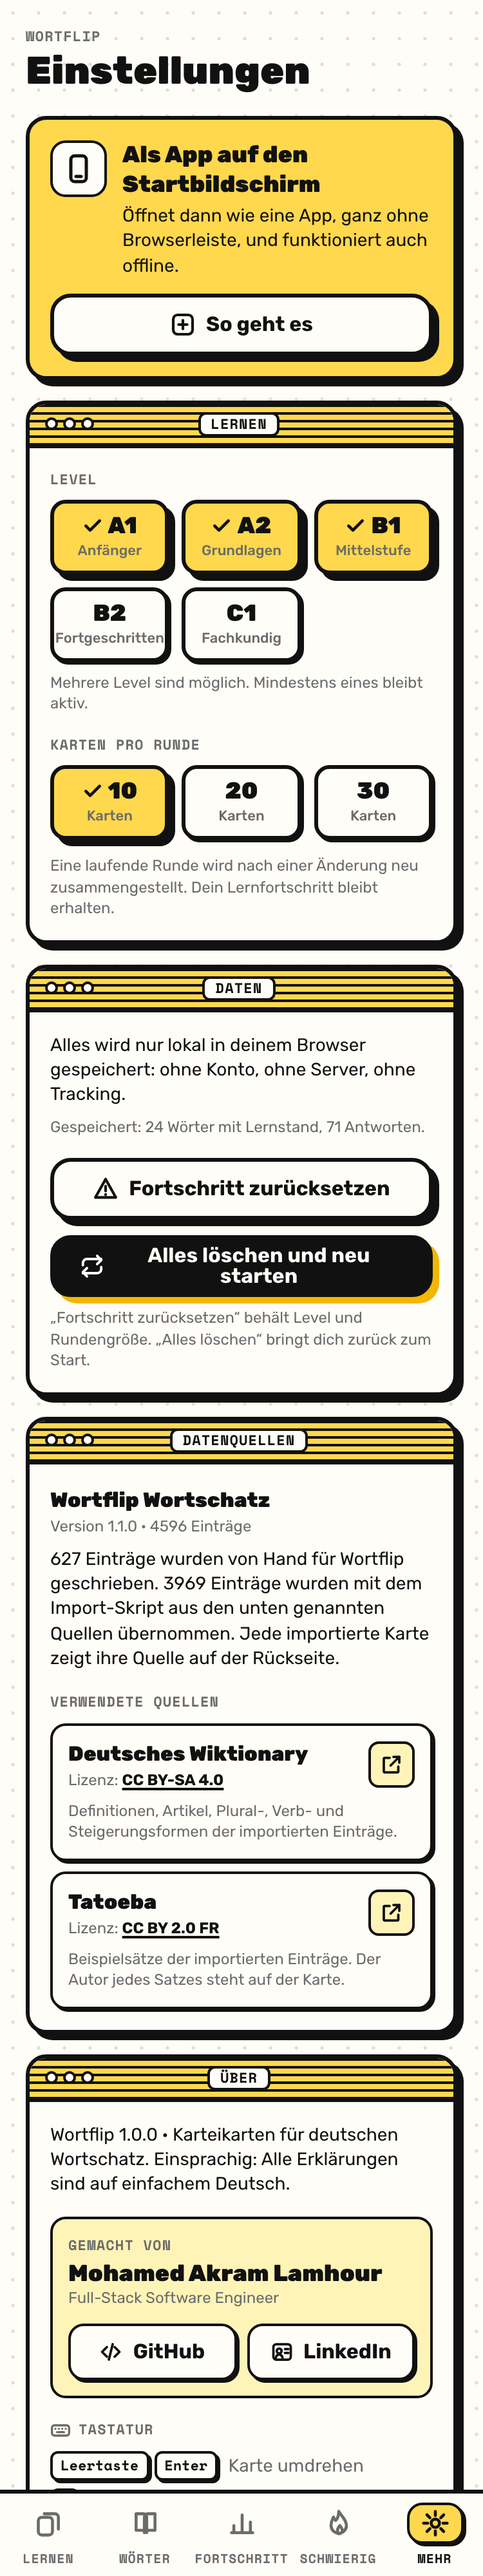
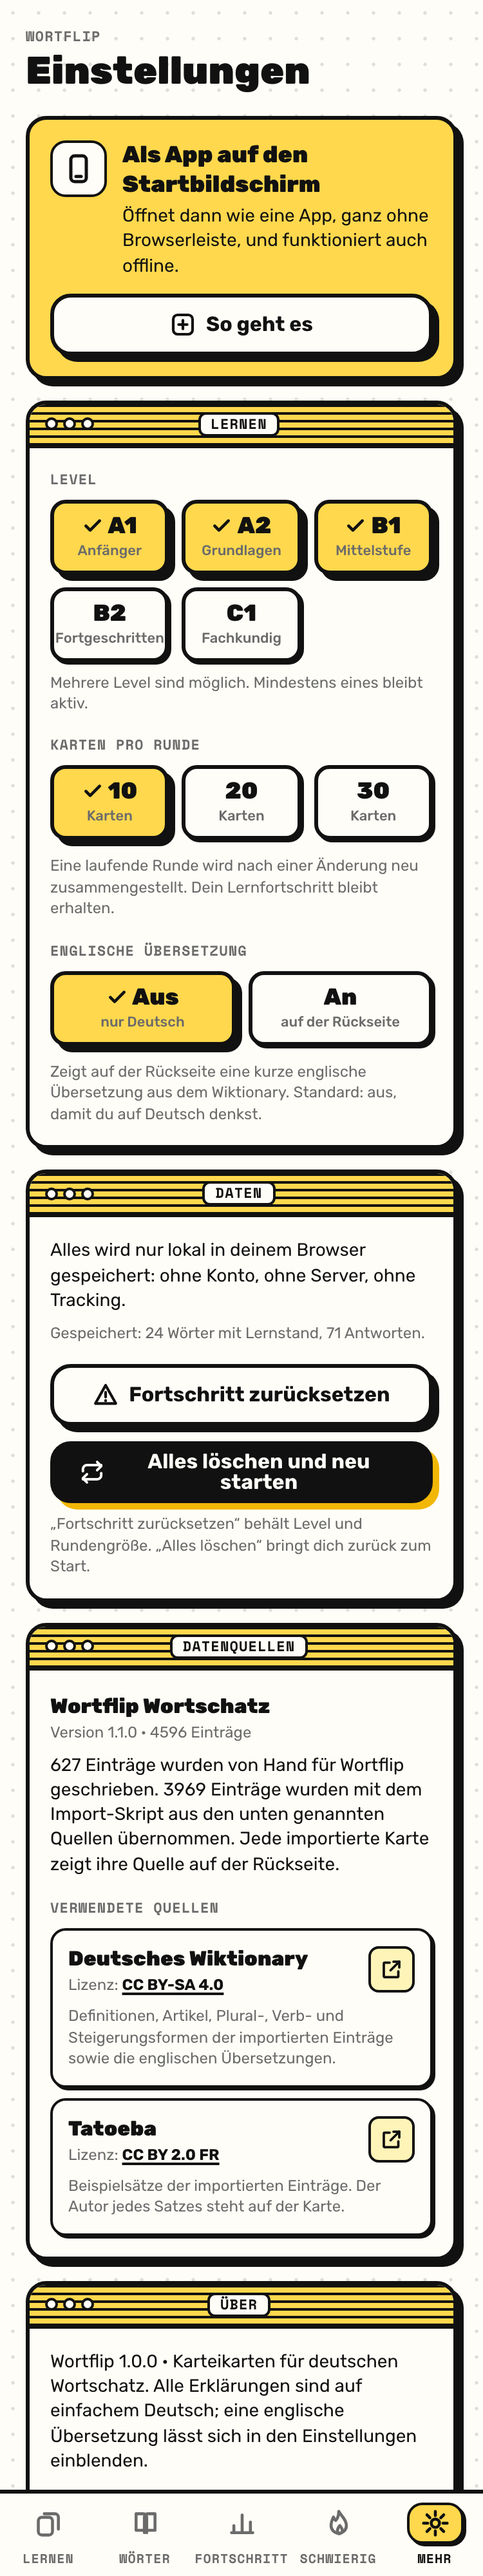
Add an optional English translation to the card back
A new import script reads the English words from the translation tables of
the cached Wiktionary pages (first sense, at most three words) for every
hand-written and imported word and writes translations.json (4417 of 4596
words). The line is shown on the back of the card and in the word list only
when the new setting is switched on; it is off by default so learners keep
thinking in German. Hand-written cards credit the Wiktionary for it.

Changed region(s): [[0.0307, 0.3438, 0.9813, 0.9688], [0.0307, 0.3438, 0.0613, 0.375]]

diff --git a/src/components/WordDetails.tsx b/src/components/WordDetails.tsx
@@ -1,5 +1,6 @@
 import { dataset, pluralForm, type VocabularyItem } from '../data';
 import { cn } from '../lib/cn';
+import { useApp } from '../state/AppContext';
 
 interface Row {
   label: string;
@@ -47,6 +48,7 @@ export function WordForms({ item, className }: { item: VocabularyItem; className
   );
 }
 
+const TRANSLATION_SOURCE = 'de-wiktionary';
 const SECTION_LABEL = 'font-mono text-[11px] font-bold uppercase tracking-wider text-gray';
 
 function sourceName(id: string): string {
@@ -55,10 +57,12 @@ function sourceName(id: string): string {
 }
 
 /** "Wörterbuch: Deutsches Wiktionary (CC BY-SA 4.0) · Beispiel: Tatoeba (CC BY 2.0 FR), Autor: xyz" */
-function attribution(item: VocabularyItem): string | null {
+function attribution(item: VocabularyItem, withTranslation: boolean): string | null {
   const parts: string[] = [];
   const definitionIds = (item.sourceIds ?? []).filter((id) => id !== item.exampleSource?.sourceId);
   if (definitionIds.length > 0) parts.push(`Wörterbuch: ${definitionIds.map(sourceName).join(', ')}`);
+  // Hand-written words carry no dictionary source, but their translation still comes from the Wiktionary.
+  if (withTranslation && !definitionIds.includes(TRANSLATION_SOURCE)) parts.push(`Übersetzung: ${sourceName(TRANSLATION_SOURCE)}`);
   if (item.exampleSource) {
     const author = item.exampleSource.author ? `, Autor: ${item.exampleSource.author}` : '';
     parts.push(`Beispiel: ${sourceName(item.exampleSource.sourceId)}${author}`);
@@ -68,12 +72,23 @@ function attribution(item: VocabularyItem): string | null {
 
 /** Definition, example sentence and grammatical forms. Shared by the card back and the word list. */
 export function WordDetails({ item, compact = false }: { item: VocabularyItem; compact?: boolean }) {
+  const { state } = useApp();
+  const translation = state.settings.showTranslation ? item.translationEn : undefined;
+  const credits = attribution(item, translation !== undefined);
   return (
     <div className={cn('flex flex-col', compact ? 'gap-2.5' : 'gap-3.5 short:gap-2.5')}>
       <section>
         <h3 className={SECTION_LABEL}>Bedeutung</h3>
         <p className={cn('mt-0.5 font-medium leading-snug', compact ? 'text-[15px]' : 'text-[17px] short:text-[15px]')}>{item.definitionDe}</p>
       </section>
+      {translation && (
+        <section>
+          <h3 className={SECTION_LABEL}>Englisch</h3>
+          <p className={cn('mt-0.5 leading-snug', compact ? 'text-[14px]' : 'text-[15px] short:text-[14px]')} lang="en">
+            {translation}
+          </p>
+        </section>
+      )}
       <section>
         <h3 className={SECTION_LABEL}>Beispiel</h3>
         <p
@@ -86,7 +101,7 @@ export function WordDetails({ item, compact = false }: { item: VocabularyItem; c
         </p>
       </section>
       <WordForms item={item} />
-      {attribution(item) && <p className="font-mono text-[10px] leading-snug text-gray">{attribution(item)}</p>}
+      {credits && <p className="font-mono text-[10px] leading-snug text-gray">{credits}</p>}
     </div>
   );
 }

diff --git a/src/screens/SettingsScreen.tsx b/src/screens/SettingsScreen.tsx
@@ -26,6 +26,11 @@ const SHORTCUTS = [
   { keys: ['→'], action: 'Kenne ich' },
 ];
 
+const TRANSLATION_CHOICES: Choice<'off' | 'on'>[] = [
+  { value: 'off', label: 'Aus', hint: 'nur Deutsch' },
+  { value: 'on', label: 'An', hint: 'auf der Rückseite' },
+];
+
 export function SettingsScreen() {
   const { state, dispatch, persistent } = useApp();
   const { settings } = state;
@@ -54,6 +59,18 @@ export function SettingsScreen() {
         </div>
         <p className="mt-3 text-xs leading-snug text-gray">
           Eine laufende Runde wird nach einer Änderung neu zusammengestellt. Dein Lernfortschritt bleibt erhalten.
+        </p>
+        <div className="mt-4">
+          <ChoiceGroup
+            name="settings-translation"
+            legend="Englische Übersetzung"
+            options={TRANSLATION_CHOICES}
+            value={settings.showTranslation ? 'on' : 'off'}
+            onChange={(value) => dispatch({ type: 'settings/showTranslation', showTranslation: value === 'on' })}
+          />
+        </div>
+        <p className="mt-3 text-xs leading-snug text-gray">
+          Zeigt auf der Rückseite eine kurze englische Übersetzung aus dem Wiktionary. Standard: aus, damit du auf Deutsch denkst.
         </p>
       </Window>
 
@@ -114,7 +131,7 @@ export function SettingsScreen() {
 
       <Window title="Über" className="mt-4">
         <p className="text-sm leading-snug">
-          Wortflip {__APP_VERSION__} · Karteikarten für deutschen Wortschatz. Einsprachig: Alle Erklärungen sind auf einfachem Deutsch.
+          Wortflip {__APP_VERSION__} · Karteikarten für deutschen Wortschatz. Alle Erklärungen sind auf einfachem Deutsch; eine englische Übersetzung lässt sich in den Einstellungen einblenden.
         </p>
         <div className="mt-4 rounded-xl border-2 border-black bg-yellow-light p-3">
           <p className="font-mono text-[11px] font-bold uppercase tracking-wider text-gray">Gemacht von</p>

diff --git a/src/data/index.ts b/src/data/index.ts
@@ -1,6 +1,7 @@
 import type { Level, VocabularyDataset, VocabularyItem, VocabularySource, WordType } from './types';
 import { vocabulary } from './vocabulary';
 import { importedSources, importedVocabulary } from './vocabulary/imported';
+import translationsFile from './vocabulary/translations.json';
 
 export type { Article, Level, VocabularyDataset, VocabularyItem, VocabularySource, WordType } from './types';
 
@@ -18,6 +19,13 @@ export const WORD_TYPE_LABELS: Record<WordType, string> = {
   other: 'Sonstiges',
 };
 
+const translations = translationsFile.translations as Record<string, string>;
+
+/** Attaches the optional English translations (German Wiktionary) to the items that have one. */
+function withTranslations(items: VocabularyItem[]): VocabularyItem[] {
+  return items.map((item) => (translations[item.id] ? { ...item, translationEn: translations[item.id] } : item));
+}
+
 /**
  * The dataset the app currently runs on. Swap `items` for a larger curated
  * list and describe its origin here; the attribution page renders `origin`
@@ -32,7 +40,7 @@ export const dataset: VocabularyDataset = {
       : `${vocabulary.length} Einträge wurden von Hand für Wortflip geschrieben. ${importedVocabulary.length} Einträge wurden mit dem ` +
         'Import-Skript aus den unten genannten Quellen übernommen. Jede importierte Karte zeigt ihre Quelle auf der Rückseite.',
   sources: importedSources,
-  items: [...vocabulary, ...importedVocabulary],
+  items: withTranslations([...vocabulary, ...importedVocabulary]),
 };
 
 /**

diff --git a/src/state/reducer.test.ts b/src/state/reducer.test.ts
@@ -28,7 +28,7 @@ describe('reducer', () => {
     const partial = reducer(state, { type: 'progress/reset' });
     expect(partial.progress).toEqual({});
     expect(partial.stats.totalReviews).toBe(0);
-    expect(partial.settings).toEqual({ levels: ['A2'], sessionSize: 30, onboarded: true });
+    expect(partial.settings).toEqual({ levels: ['A2'], sessionSize: 30, showTranslation: false, onboarded: true });
 
     const full = reducer(state, { type: 'app/reset-all' });
     expect(full).toEqual(defaultState());
@@ -43,5 +43,16 @@ describe('reducer', () => {
     expect(reducer(state, { type: 'settings/levels', levels: ['A1'] }).session).not.toBeNull(); // unchanged levels
     state = reducer(state, { type: 'settings/levels', levels: ['B1'] });
     expect(state.session).toBeNull();
+  });
+
+  it('toggling the translation keeps the running session', () => {
+    let state = reducer(defaultState(), {
+      type: 'session/set',
+      session: { kind: 'daily', queue: ['tisch'], total: 1, correct: 0, incorrect: 0, startedAt: NOW },
+    });
+    state = reducer(state, { type: 'settings/showTranslation', showTranslation: true });
+    expect(state.settings.showTranslation).toBe(true);
+    expect(state.session).not.toBeNull();
+    expect(reducer(state, { type: 'settings/showTranslation', showTranslation: true })).toBe(state);
   });
 });

diff --git a/src/state/reducer.ts b/src/state/reducer.ts
@@ -10,6 +10,7 @@ export type Action =
   | { type: 'onboarding/complete'; levels: Level[] }
   | { type: 'settings/levels'; levels: Level[] }
   | { type: 'settings/sessionSize'; sessionSize: SessionSize }
+  | { type: 'settings/showTranslation'; showTranslation: boolean }
   | { type: 'session/set'; session: SessionState | null }
   | { type: 'review'; id: string; rating: Rating; now: number }
   | { type: 'progress/reset' }
@@ -38,6 +39,12 @@ export function reducer(state: AppState, action: Action): AppState {
     case 'settings/sessionSize': {
       if (state.settings.sessionSize === action.sessionSize) return state;
       return { ...state, settings: { ...state.settings, sessionSize: action.sessionSize }, session: null };
+    }
+
+    case 'settings/showTranslation': {
+      if (state.settings.showTranslation === action.showTranslation) return state;
+      // Only changes what the card back shows; the running session stays.
+      return { ...state, settings: { ...state.settings, showTranslation: action.showTranslation } };
     }
 
     case 'session/set':

diff --git a/src/learning/storage.test.ts b/src/learning/storage.test.ts
@@ -34,7 +34,7 @@ describe('storage', () => {
   it('drops invalid parts but keeps the valid ones', () => {
     const state = sanitizeState(
       {
-        settings: { levels: ['A2', 'C2'], sessionSize: 99, onboarded: true },
+        settings: { levels: ['A2', 'C2'], sessionSize: 99, showTranslation: 'yes', onboarded: true },
         progress: {
           tisch: { status: 'learning', box: 1, dueAt: 5, lastReviewedAt: 4, correct: 1, incorrect: 0, streak: 1 },
           gehen: { status: 'weird', box: -1 },
@@ -48,6 +48,7 @@ describe('storage', () => {
     );
     expect(state.settings.levels).toEqual(['A2']);
     expect(state.settings.sessionSize).toBe(10);
+    expect(state.settings.showTranslation).toBe(false);
     expect(state.settings.onboarded).toBe(true);
     expect(Object.keys(state.progress)).toEqual(['tisch']);
     expect(state.streak).toEqual({ current: 3, best: 3, lastActiveDay: null });

diff --git a/src/learning/storage.ts b/src/learning/storage.ts
@@ -37,7 +37,7 @@ const WORD_STATUSES: readonly WordStatus[] = ['new', 'learning', 'mastered'];
 const SESSION_KINDS: readonly SessionKind[] = ['daily', 'extra', 'focus', 'custom'];
 
 export function defaultSettings(): Settings {
-  return { levels: ['A1'], sessionSize: 10, onboarded: false };
+  return { levels: ['A1'], sessionSize: 10, showTranslation: false, onboarded: false };
 }
 
 export function defaultState(): AppState {
@@ -129,6 +129,7 @@ function sanitizeSettings(raw: unknown): Settings {
   return {
     levels: levels.length > 0 ? levels : defaults.levels,
     sessionSize: isOneOf(SESSION_SIZES, raw.sessionSize) ? raw.sessionSize : defaults.sessionSize,
+    showTranslation: raw.showTranslation === true,
     onboarded: raw.onboarded === true,
   };
 }

diff --git a/src/data/types.ts b/src/data/types.ts
@@ -40,6 +40,8 @@ export interface VocabularyItem {
   definitionDe: string;
   /** One natural example sentence in German. */
   exampleDe: string;
+  /** Optional English translation of the first sense (shown only when enabled in the settings). */
+  translationEn?: string;
   verbForms?: VerbForms;
   adjectiveForms?: AdjectiveForms;
   /** Ids of `VocabularyDataset.sources` this entry was taken from. Omit for hand-written entries. */

diff --git a/vite.config.ts b/vite.config.ts
@@ -25,7 +25,7 @@ export default defineConfig({
     rollupOptions: {
       output: {
         advancedChunks: {
-          groups: [{ name: 'vocabulary', test: /imported\.json$/ }],
+          groups: [{ name: 'vocabulary', test: /(imported|translations)\.json$/ }],
         },
       },
     },

diff --git a/src/learning/types.ts b/src/learning/types.ts
@@ -39,6 +39,8 @@ export type SessionSize = 10 | 20 | 30;
 export interface Settings {
   levels: Level[];
   sessionSize: SessionSize;
+  /** Show the English translation on the back of the card (off by default: think in German). */
+  showTranslation: boolean;
   onboarded: boolean;
 }
 

diff --git a/README.md b/README.md
@@ -11,6 +11,7 @@ A static Progressive Web App: no account, no server, no requests to any API whil
 - **Swipe** to rate: right = "Kenne ich", left = "Noch lernen". Buttons and keyboard work too.
 - **Spaced repetition** decides when a word comes back (Leitner boxes: 1, 3, 7, 14, 30 days).
 - **4596 words** in five levels: 627 hand-written (A1 193, A2 147, B1 144, B2 71, C1 72) plus 3969 imported from Wiktionary and Tatoeba. The A1 to B1 imports were selected with the Goethe-Institut word lists (A1 410, A2 472, B1 1506); the B2 and C1 imports (775 and 806) were selected by word frequency, so those two levels are approximate. Levels can be combined freely.
+- **Optional English translation**: off by default so you think in German. Switch it on in Settings and the back of every card shows a short translation from the German Wiktionary (4,500 of the 4,596 words have one).
 - **Word list with search**: filter by level and word type, search even without umlauts ("gefuhl" finds "Gefühl"), and learn the current selection. Search runs entirely in the browser over the bundled data; nothing is looked up online and nothing counts against hosting limits.
 - **Offline and installable**: app shell, vocabulary and fonts are cached by a service worker.
 - **Add to home screen**: an install card triggers the native install prompt where the browser supports it (Android, Chrome and Edge on desktop) and shows step-by-step instructions on iPhone and iPad, matched to the browser in use (Safari, Chrome, Edge, Firefox).
@@ -181,7 +182,10 @@ npm run import -- --frequency 12000 --min-rank 3000 --b1 3000 --b2 5500 --strict
 npm run import -- --list list.txt --merge --override-level       # add to the existing import, levels from the list win
 npm run import -- --frequency 300 --no-sentences --dry-run        # show only, write nothing
 IMPORT_CONTACT="you@example.com" npm run import -- --list ...    # contact for the User-Agent (Wikimedia asks for it)
+npm run import:translations                                       # English translations for every word (hand-written and imported)
 ```
+
+`npm run import:translations` reads the English words from the translation tables of the same Wiktionary pages (first sense, at most three words) and writes them to `src/data/vocabulary/translations.json`, keyed by word id. It reuses the cached pages and only fetches the hand-written words. Run it again after adding words to a level file.
 
 The script runs only on your machine, never in the app and never in the Netlify build. It requests slowly (Tatoeba: one request per second; Wiktionary: 30 pages every three seconds), waits as long as the server demands on a 429 answer, caches every response in `scripts/.cache/` (further runs are almost free) and skips words that already exist in the hand-written files. A run with 3000 words takes about 35 minutes.
 

diff --git a/NOTICE.md b/NOTICE.md
@@ -1,7 +1,8 @@
 # Third-party content
 
-The vocabulary data in src/data/vocabulary/imported.json is not covered by the
-MIT license. Its definitions and word forms come from the German Wiktionary
+The vocabulary data in src/data/vocabulary/imported.json and the English
+translations in src/data/vocabulary/translations.json are not covered by the
+MIT license. Definitions, word forms and translations come from the German Wiktionary
 (CC BY-SA 4.0, https://creativecommons.org/licenses/by-sa/4.0/) and its example
 sentences from Tatoeba (CC BY 2.0 FR, https://creativecommons.org/licenses/by/2.0/fr/),
 with the author of each sentence named in the file. The bundled fonts Rubik and
